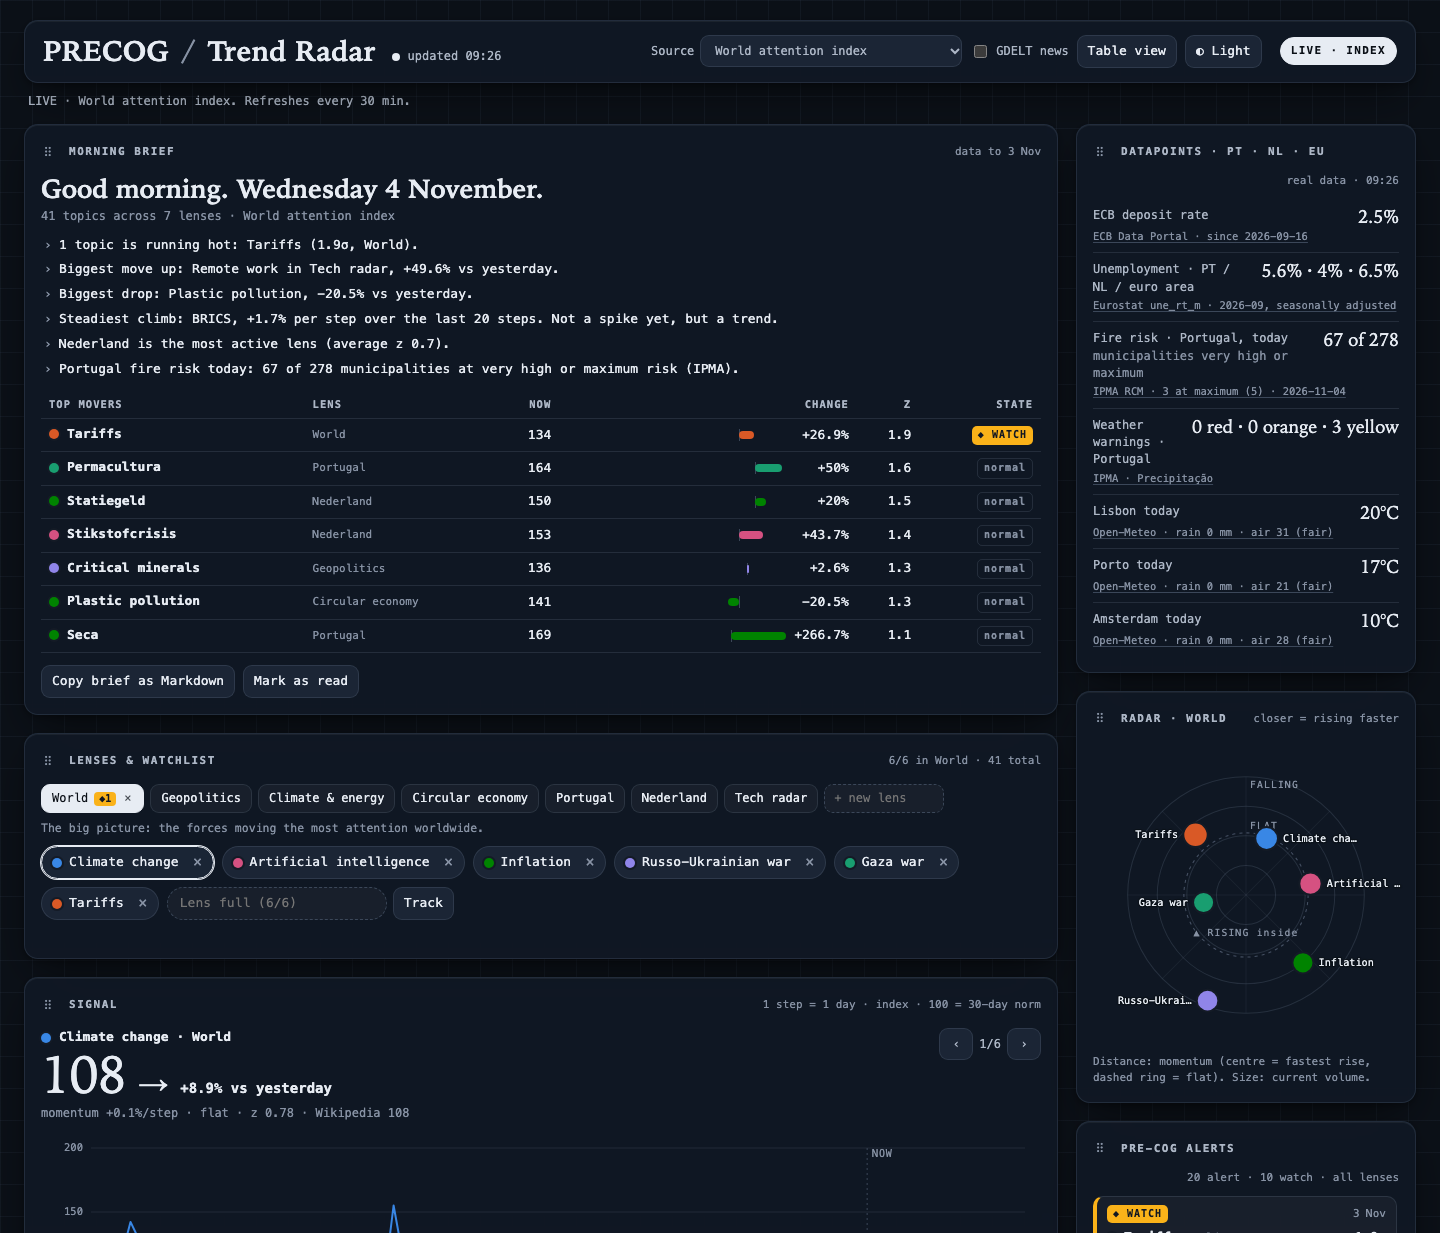
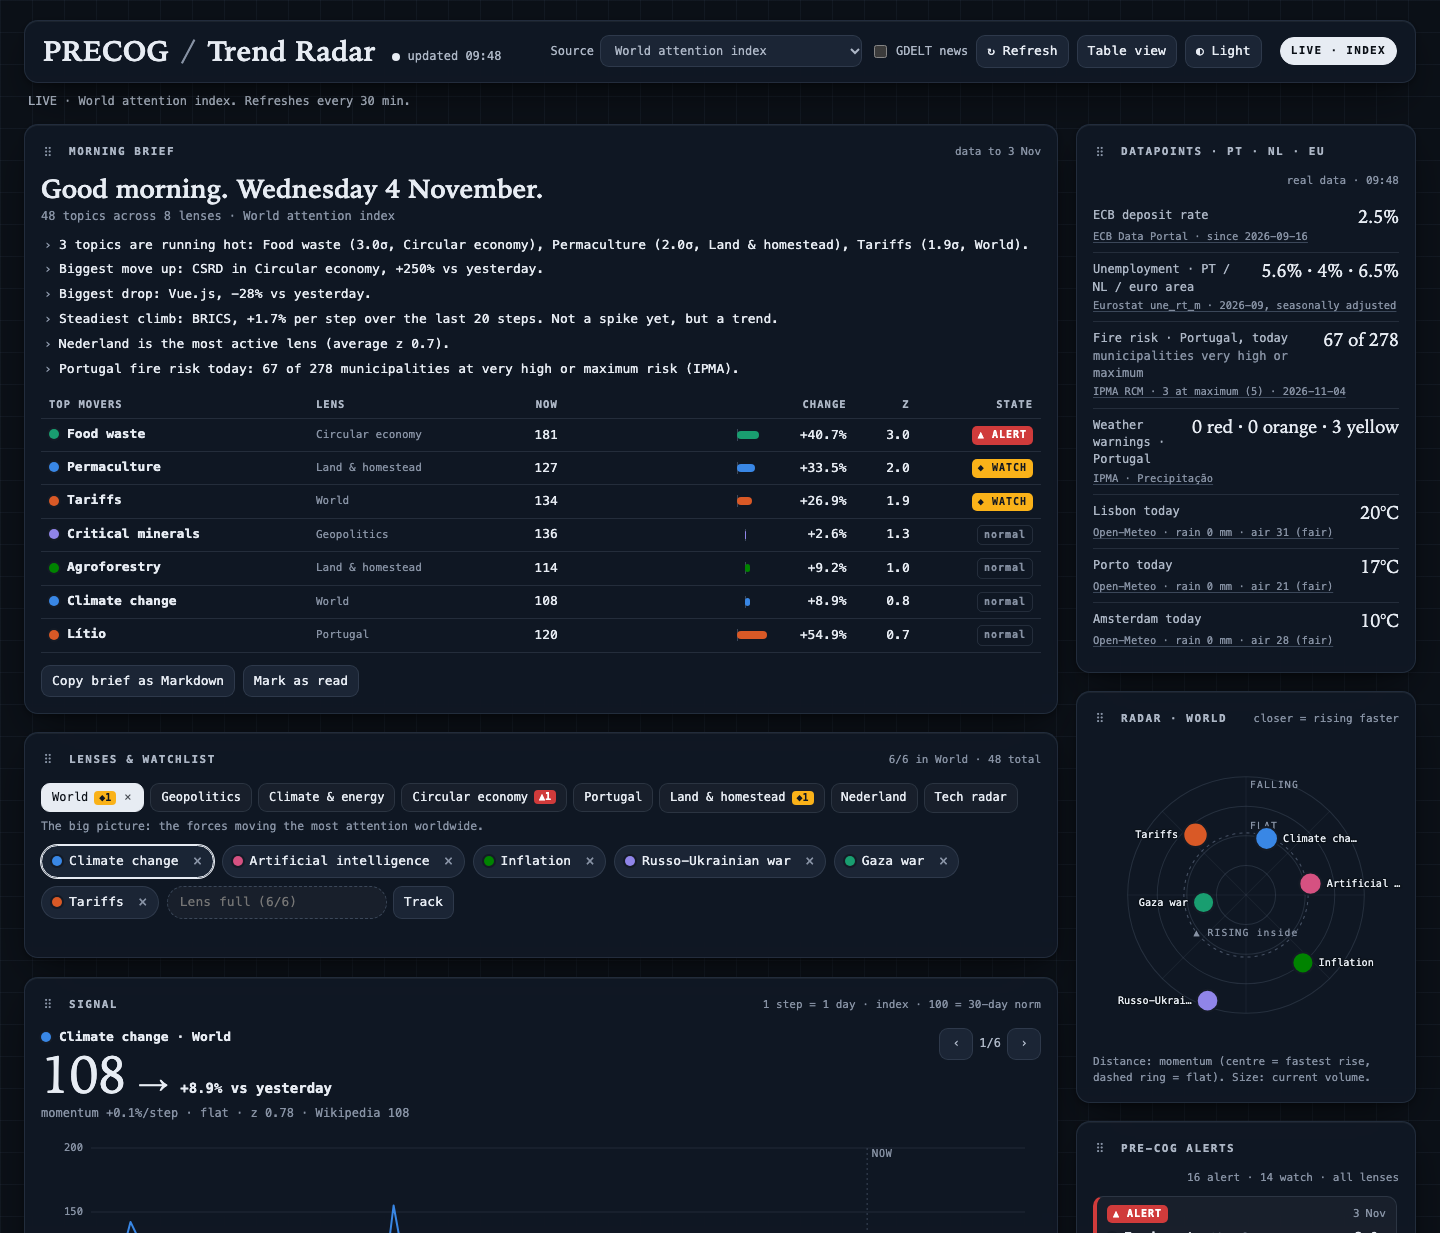
docs: update README and screenshots for live-only data and new lenses

diff --git a/README.md b/README.md
@@ -31,16 +31,16 @@ Open it with your coffee. In about two minutes you know what's running hot, what
 
 ## What's on the screen
 
-|                       |                                                                                                                                                                                                                                                                      |
-| --------------------- | -------------------------------------------------------------------------------------------------------------------------------------------------------------------------------------------------------------------------------------------------------------------- |
-| ☀ **Morning brief**  | What's running hot, the biggest moves, the steadiest climb and the most active lens, plus what changed **since your last look**. One click copies it as Markdown for your daily note.                                                                                |
-| 🔭 **Lenses**         | Themed watchlists: _World, Geopolitics, Climate & energy, Circular economy, Portugal, Nederland, Tech radar_. Up to 8 lenses of 6 topics each. Local lenses read Portuguese and Dutch Wikipedia and filter news to local outlets.                                    |
-| 📈 **Signal**         | The selected topic's history, a dashed 12-step forecast with a ±1σ band, and a hover crosshair. Swipe, drag or press `←` `→` to change topic, and `[` `]` to change lens.                                                                                            |
-| 🚀 **Rising stories** | A [NewsWhip](https://www.newswhip.com/)-style ranking of stories by engagement **per hour**, measured as the page re-checks them, with a 24-hour projection and a **breaking out** flag. Plus story clusters from global news and from Portuguese and Dutch outlets. |
-| 🎯 **Radar**          | A rotating sweep over your lens. Distance shows momentum (centre = rising fastest), size shows volume, and blips ping as the sweep passes.                                                                                                                           |
-| 🚨 **Pre-cog alerts** | Raised when a topic's latest point is more than 2.5σ above its 30-step baseline (**ALERT**), or more than 1.8σ (**WATCH**). Each comes with a plain-English explanation and a projection.                                                                            |
-| 🧾 **Datapoints**     | Official open data: the ECB deposit rate, unemployment (PT / NL / euro area), IPMA fire risk and weather warnings, and today's weather and air quality in Lisbon, Porto and Amsterdam.                                                                               |
-| ♿ **Table view**     | Every topic in every lens in one accessible table. Respects reduced motion. Prints on A4 landscape.                                                                                                                                                                  |
+|                       |                                                                                                                                                                                                                                                                                                                                                                                            |
+| --------------------- | ------------------------------------------------------------------------------------------------------------------------------------------------------------------------------------------------------------------------------------------------------------------------------------------------------------------------------------------------------------------------------------------ |
+| ☀ **Morning brief**  | What's running hot, the biggest moves, the steadiest climb and the most active lens, plus what changed **since your last look**. One click copies it as Markdown for your daily note.                                                                                                                                                                                                      |
+| 🔭 **Lenses**         | Themed watchlists: _World, Geopolitics, Climate & energy, Circular economy_ (packaging rules, food waste, CSRD), _Portugal, Land & homestead_ (permaculture, agroforestry, rewilding), _Nederland, Tech radar_ (agents, MCP, Rust, TypeScript, Vue). Edit any of them: up to 8 lenses of 6 topics each. Local lenses read Portuguese and Dutch Wikipedia and filter news to local outlets. |
+| 📈 **Signal**         | The selected topic's history, a dashed 12-step forecast with a ±1σ band, and a hover crosshair. Swipe, drag or press `←` `→` to change topic, and `[` `]` to change lens.                                                                                                                                                                                                                  |
+| 🚀 **Rising stories** | A [NewsWhip](https://www.newswhip.com/)-style ranking of stories by engagement **per hour**, measured as the page re-checks them, with a 24-hour projection and a **breaking out** flag. Plus story clusters from global news and from Portuguese and Dutch outlets.                                                                                                                       |
+| 🎯 **Radar**          | A rotating sweep over your lens. Distance shows momentum (centre = rising fastest), size shows volume, and blips ping as the sweep passes.                                                                                                                                                                                                                                                 |
+| 🚨 **Pre-cog alerts** | Raised when a topic's latest point is more than 2.5σ above its 30-step baseline (**ALERT**), or more than 1.8σ (**WATCH**). Each comes with a plain-English explanation and a projection.                                                                                                                                                                                                  |
+| 🧾 **Datapoints**     | Official open data: the ECB deposit rate, unemployment (PT / NL / euro area), IPMA fire risk and weather warnings, and today's weather and air quality in Lisbon, Porto and Amsterdam.                                                                                                                                                                                                     |
+| ♿ **Table view**     | Every topic in every lens in one accessible table. Respects reduced motion. Prints on A4 landscape.                                                                                                                                                                                                                                                                                        |
 
 <p align="center"><img src="docs/screenshot-light.png" alt="PRECOG in light mode showing the Portugal lens" width="85%"></p>
 
@@ -57,7 +57,7 @@ Or skip the setup and use the [hosted version](https://alex-quiterio.github.io/p
 
 `npm run build` writes **one self-contained `dist/index.html`** with all JS and CSS inlined. It opens straight from your file system, with no server.
 
-The dashboard starts in **DEMO DATA** mode (seeded random walks, clearly labelled). Choose **World attention index** in the source menu for real data.
+It opens straight onto **real data** from the World attention index. There's no simulated mode, so nothing on screen is ever made up. A cold start takes up to a minute while the sources answer, and results are cached after that. Press **↻ Refresh** any time.
 
 ### Portuguese and Dutch news
 
@@ -124,7 +124,7 @@ src/
 ├── main.ts                 boot: prefs, mount, data loop, keyboard
 ├── App.vue                 root layout: header, status, two panel columns
 ├── types.ts                shared data shapes (Entry, Stats, Alert, Adapter…)
-├── core/                   config, person guard, simulator, statistics, formatting, ui store
+├── core/                   config, person guard, statistics, formatting, ui store
 ├── sources/                registry + one adapter per source, and the blend
 ├── features/               morning brief, rising stories, datapoints
 ├── components/             one Vue component per panel, plus PanelShell, Sparkline, tags
@@ -140,7 +140,7 @@ The logic modules are plain TypeScript with no DOM access. They change plain sta
 | ---------------- | -------------------------------------------------------- |
 | `npm run dev`    | Vite dev server with hot reload                          |
 | `npm run build`  | type-check, then build the single-file `dist/index.html` |
-| `npm test`       | Vitest unit tests (guard, stats, blend, simulator)       |
+| `npm test`       | Vitest unit tests (guard, stats, blend, preset upgrades) |
 | `npm run lint`   | `vue-tsc` type-check and Prettier check                  |
 | `npm run format` | Prettier, configured in `.prettierrc`                    |
 | `npm run proxy`  | the local PT/NL feed proxy                               |
